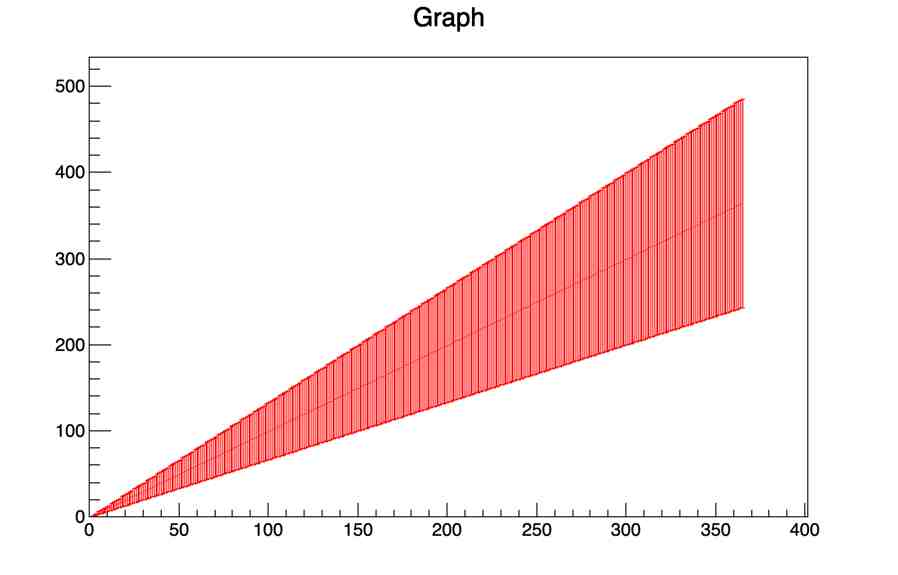
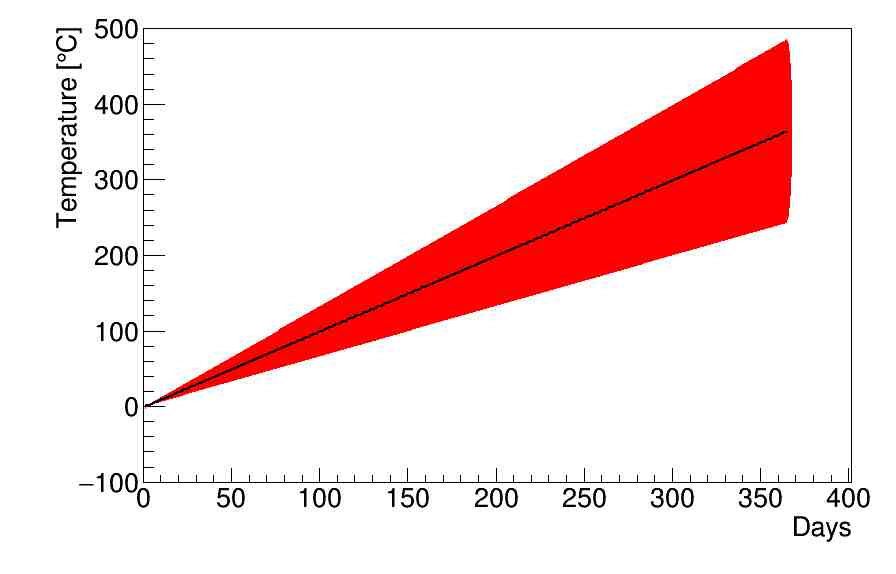
tested graph methods and got them to look how I wanted

Changed region(s): [[0.0625, 0.0296, 0.9688, 0.9477], [0.4375, 0.0, 0.5625, 0.0592]]

diff --git a/project/project.C b/project/project.C
@@ -7,6 +7,7 @@
 #include <TCanvas.h>
 #include <vector>
 #include <TGraphErrors.h>
+#include <TLegend.h>
 /*
 gStyle->SetOptStat(0);
 gStyle->SetOptTitle(0);
@@ -90,13 +91,23 @@ void everyDay(string filePath="../clean_data/upsala_clean.dat", Int_t plot=0){
 		gStyle->SetPadLeftMargin(0.16);
 		*/
 		TGraphErrors* g1 = new TGraphErrors(n,days,daysMean,zeros,daysStaDev);
-		g1->SetLineColor(2);
-		g1->SetFillColor(3);
-		g1->Draw("AL");
+		g1->SetTitle("Temperatures over the year for one location");
+		g1->GetXaxis()->SetTitle("Days");
+		g1->GetYaxis()->SetTitle("Temperature [#circC]");
+		g1->SetMaximum(500);
+		g1->SetMinimum(-100);
+		g1->SetFillColor(2);
+		g1->SetFillStyle(3000);
+		g1->Draw("a4 ");
+		TGraphErrors* g1l = new TGraphErrors(n,days,daysMean,zeros,zeros);
+		g1l->SetLineColor(1);
+		g1l->SetLineWidth(2);
+		g1l->Draw("l");
+		
 		c1->SaveAs("every_day_graph_one_location.jpg");
 		
 		TCanvas* c4 = new TCanvas("c1", "every day graph one location histogram", 900, 600);
-		/*
+		
 		gStyle->SetOptStat(0);
 		gStyle->SetOptTitle(0);
 		gStyle->SetTitleSize(0.05, "x");
@@ -107,27 +118,25 @@ void everyDay(string filePath="../clean_data/upsala_clean.dat", Int_t plot=0){
 		gStyle->SetPadRightMargin(0.05);
 		gStyle->SetPadBottomMargin(0.16);
 		gStyle->SetPadLeftMargin(0.16);
-		*/
-		/*
+		
+		
 		TH1I* histED = new TH1I("histED", "Temperature;Day of the year;Temperature[#circC]", 365, 1, 365);
-		for(int bin = 1; bin <= hist->GetNbinsX(); ++bin) {
-			hist->SetBinContent(bin, daysMean[bin-1]);
-			hist->SetBinError(bin, daysStaDev[bin-1]);
+		for(int bin = 1; bin <= histED->GetNbinsX(); ++bin) {
+			histED->SetBinContent(bin, daysMean[bin-1]);
+			histED->SetBinError(bin, daysStaDev[bin-1]);
 		}
-		hist->SetLineColor(2);
-		hist->SetFillColor(3);
-		hist->Draw("E L");
-		*/
+		histED->SetLineColor(2);
+		histED->Draw("E L");
+		TH1I* histEDl = new TH1I("histED", "Temperature;Day of the year;Temperature[#circC]", 365, 1, 365);
+		for(int bin = 1; bin <= histEDl->GetNbinsX(); ++bin) {
+			histEDl->SetBinContent(bin, daysMean[bin-1]);
+		}
+		histEDl->SetLineColor(1);
+		histEDl->SetLineWidth(2);
+		histEDl->Draw("L same");
+		
 		c4->SaveAs("every_day_graph_one_location_histogram.jpg");
 	}
-	/*
-	if (plot == 0){
-		return outputBigM;
-	}
-	if (plot == 2){
-		return outputBigS;
-	}
-	*/
 }
 
 
@@ -194,8 +203,9 @@ void LattDiff(){
 		luleuS[i]=luleuP[1];
 		*/
 	}
+	
 	TCanvas* c2 = new TCanvas("c2", "every day graph multiple locations standard deviation included", 900, 600);
-	/*
+	
 	gStyle->SetOptStat(0);
 	gStyle->SetOptTitle(0);
 	gStyle->SetTitleSize(0.05, "x");
@@ -206,28 +216,41 @@ void LattDiff(){
 	gStyle->SetPadRightMargin(0.05);
 	gStyle->SetPadBottomMargin(0.16);
 	gStyle->SetPadLeftMargin(0.16);
-	*/
-
+	
+	Int_t lw1 = 2;
+	
 	TGraphErrors* t0p = new TGraphErrors(n,days,t0daysMean,zeros,t0daysStaDev);
-	t0p->SetMaximum(400);
-	t0p->SetMinimum(-400);
-	t0p->SetLineColor(1);
+	t0p->SetTitle("Temperatures over the year for different Lattitudes");
+	t0p->GetXaxis()->SetTitle("Days");
+  	t0p->GetYaxis()->SetTitle("Temperature [#circC]");
+	t0p->SetMaximum(500);
+	t0p->SetMinimum(-100);
 	t0p->SetFillColor(2);
  	t0p->SetFillStyle(3004);
 	t0p->Draw("a4 ");
-	//t0p->Draw("AL");
+	
 	TGraphErrors* t1p = new TGraphErrors(n,days,t1daysMean,zeros,t1daysStaDev);
-	t1p->SetLineColor(1);
 	t1p->SetFillColor(3);
 	t1p->SetFillStyle(3005);
 	t1p->Draw("4 ");
-	//t1p->Draw("L");
+	
 	TGraphErrors* t2p = new TGraphErrors(n,days,t2daysMean,zeros,t2daysStaDev);
-	t2p->SetLineColor(1);
 	t2p->SetFillColor(4);
 	t2p->SetFillStyle(3006);
 	t2p->Draw("4 ");
-	//t2p->Draw("L");
+	
+	TGraphErrors* t0pl = new TGraphErrors(n,days,t0daysMean,zeros,zeros);
+	t0pl->SetLineColor(2);
+	t0pl->SetLineWidth(lw1);
+	t0pl->Draw("l");
+	TGraphErrors* t1pl = new TGraphErrors(n,days,t1daysMean,zeros,zeros);
+	t1pl->SetLineColor(3);
+	t1pl->SetLineWidth(lw1);
+	t1pl->Draw("l");
+	TGraphErrors* t2pl = new TGraphErrors(n,days,t2daysMean,zeros,zeros);
+	t2pl->SetLineColor(4);
+	t2pl->SetLineWidth(lw1);
+	t2pl->Draw("l");
 
 	/*
 	TGraphErrors* lundG = new TGraphErrors(n,days,lundM,zeros,lundS);
@@ -237,55 +260,66 @@ void LattDiff(){
 	lundG->SetMaximum(20);
 	lundG->SetMinimum(-4);
 	lundG->SetFillColor(2);
-	lundG->SetLineColor(1);
 	lundG->SetFillStyle(3001)
 	lundG->Draw("a4")
-	//lundG->Draw("AL");
 	
 	TGraphErrors* visbyG = new TGraphErrors(n,days,visbyM,zeros,visbyS);
 	visbyG->SetFillColor(3);
-	visbyG->SetLineColor(1);
 	visbyG->SetFillStyle(3004)
 	visbyG->Draw("4")
-	//visbyG->Draw("L");
 	
 	TGraphErrors* upsalaG = new TGraphErrors(n,days,upsalaM,zeros,upsalaS);
 	upsalaG->SetFillColor(4);
-	upsalaG->SetLineColor(1);
 	upsalaG->SetFillStyle(3005)
 	upsalaG->Draw("4")
-	//upsalaG->Draw("L");
 	
 	TGraphErrors* umeaG = new TGraphErrors(n,days,umeaM,zeros,umeaS);
 	umeaG->SetFillColor(6);
-	umeaG->SetLineColor(1);
 	umeaG->SetFillStyle(3006)
 	umeaG->Draw("4")
-	//umeaG->Draw("L");
 	
 	TGraphErrors* luleuG = new TGraphErrors(n,days,luleuM,zeros,luleuS);
 	luleuG->SetFillColor(28);
-	luleuG->SetLineColor(1);
 	luleuG->SetFillStyle(3007)
 	luleuG->Draw("4")
-	//luleuG->Draw("L");
+	
+	TGraphErrors* lundGl = new TGraphErrors(n,days,lundM,zeros,zeros);
+	lundGl->SetLineColor(4);
+	lundGl->SetLineWidth(lw1);
+	lundGl->Draw("l");
+	TGraphErrors* visbyGl = new TGraphErrors(n,days,visbyM,zeros,zeros);
+	visbyGl->SetLineColor(4);
+	visbyGl->SetLineWidth(lw1);
+	visbyGl->Draw("l");
+	TGraphErrors* upsalaGl = new TGraphErrors(n,days,upsalaM,zeros,zeros);
+	upsalaGl->SetLineColor(4);
+	upsalaGl->SetLineWidth(lw1);
+	upsalaGl->Draw("l");
+	TGraphErrors* umeaGl = new TGraphErrors(n,days,umeaM,zeros,zeros);
+	umeaGl->SetLineColor(4);
+	umeaGl->SetLineWidth(lw1);
+	umeaGl->Draw("l");
+	TGraphErrors* luleuGl = new TGraphErrors(n,days,luleuM,zeros,zeros);
+	luleuGl->SetLineColor(4);
+	luleuGl->SetLineWidth(lw1);
+	luleuGl->Draw("l");
 	*/
 
-	/*
-	auto testL = new TLegend(0.1,0.7,0.48,0.9);
+	
+	TLegend* testL = new TLegend(0.1,0.7,0.48,0.9);
   	testL->AddEntry(t0p,"test0","f");
   	testL->AddEntry(t1p,"test1","f");
   	testL->AddEntry(t2p,"test2","f");
   	testL->Draw();
-	*/
+	
 
 	/*
 	auto Legend = new TLegend(0.1,0.7,0.48,0.9);
- 	Legend->AddEntry(lundG,"Values from lund Latitude = 55.7","f");
-  	Legend->AddEntry(visbyG,"Values from Visby Latitude = 57.7","f");
-  	Legend->AddEntry(upsalaG,"Values from Upsala Latitude = 59.9","f");
-	Legend->AddEntry(umeaG,"Values from Umea Latitude = 63.8","f");
-	Legend->AddEntry(luleuG,"Values from Luleu Latitude = 65.5","f");
+ 	Legend->AddEntry(lundG,"Values from lund Latitude = 55.7#circ","f");
+  	Legend->AddEntry(visbyG,"Values from Visby Latitude = 57.7#circ","f");
+  	Legend->AddEntry(upsalaG,"Values from Upsala Latitude = 59.9#circ","f");
+	Legend->AddEntry(umeaG,"Values from Umea Latitude = 63.8#circ","f");
+	Legend->AddEntry(luleuG,"Values from Luleu Latitude = 65.5#circ","f");
  	Legend->Draw();
 	*/
 
@@ -297,7 +331,7 @@ void LattDiff(){
 	
 	
 	TCanvas* c3 = new TCanvas("c3", "every day graph multiple locations just means", 900, 600);
-	/*
+	
 	gStyle->SetOptStat(0);
 	gStyle->SetOptTitle(0);
 	gStyle->SetTitleSize(0.05, "x");
@@ -308,22 +342,22 @@ void LattDiff(){
 	gStyle->SetPadRightMargin(0.05);
 	gStyle->SetPadBottomMargin(0.16);
 	gStyle->SetPadLeftMargin(0.16);
-	*/
+	
 
 	TGraphErrors* t0p2 = new TGraphErrors(n,days,t0daysMean,zeros,zeros);
-	Int_t lw = 4;
+	Int_t lw2 = 2;
 	t0p2->SetMaximum(400);
 	t0p2->SetMinimum(0);
 	t0p2->SetLineColor(2);
-   	t0p2->SetLineWidth(lw);
+   	t0p2->SetLineWidth(lw2);
 	t0p2->Draw("AL");
 	TGraphErrors* t1p2 = new TGraphErrors(n,days,t1daysMean,zeros,zeros);
 	t1p2->SetLineColor(3);
-   	t1p2->SetLineWidth(lw);
+   	t1p2->SetLineWidth(lw2);
 	t1p2->Draw("L");
 	TGraphErrors* t2p2 = new TGraphErrors(n,days,t2daysMean,zeros,zeros);
 	t2p2->SetLineColor(4);
-   	t2p2->SetLineWidth(lw);
+   	t2p2->SetLineWidth(lw2);
 	t2p2->Draw("L");
 	
 	/*
@@ -357,13 +391,13 @@ void LattDiff(){
    	luleuG2->SetLineWidth(lw);
 	luleuG2->Draw("L");
 	*/
-	/*
-	auto testL = new TLegend(0.1,0.7,0.48,0.9);
-  	testL->AddEntry(t0p,"test0","l");
-  	testL->AddEntry(t1p,"test1","l");
-  	testL->AddEntry(t2p,"test2","l");
-  	testL->Draw();
-	*/
+	
+	TLegend * testL2 = new TLegend(0.1,0.7,0.48,0.9);
+  	testL2->AddEntry(t0p2,"test0","l");
+  	testL2->AddEntry(t1p2,"test1","l");
+  	testL2->AddEntry(t2p2,"test2","l");
+  	testL2->Draw();
+	
 	/*
 	auto Legend2 = new TLegend(0.1,0.7,0.48,0.9);
  	Legend2->AddEntry(lundG2,"Values from lund Latitude = 55.7","l");
@@ -374,6 +408,6 @@ void LattDiff(){
  	Legend2->Draw();
 	*/
 
-	c2->SaveAs("every_day_graph_multiple_locations_just_means.jpg");
+	c3->SaveAs("every_day_graph_multiple_locations_just_means.jpg");
 
 }
